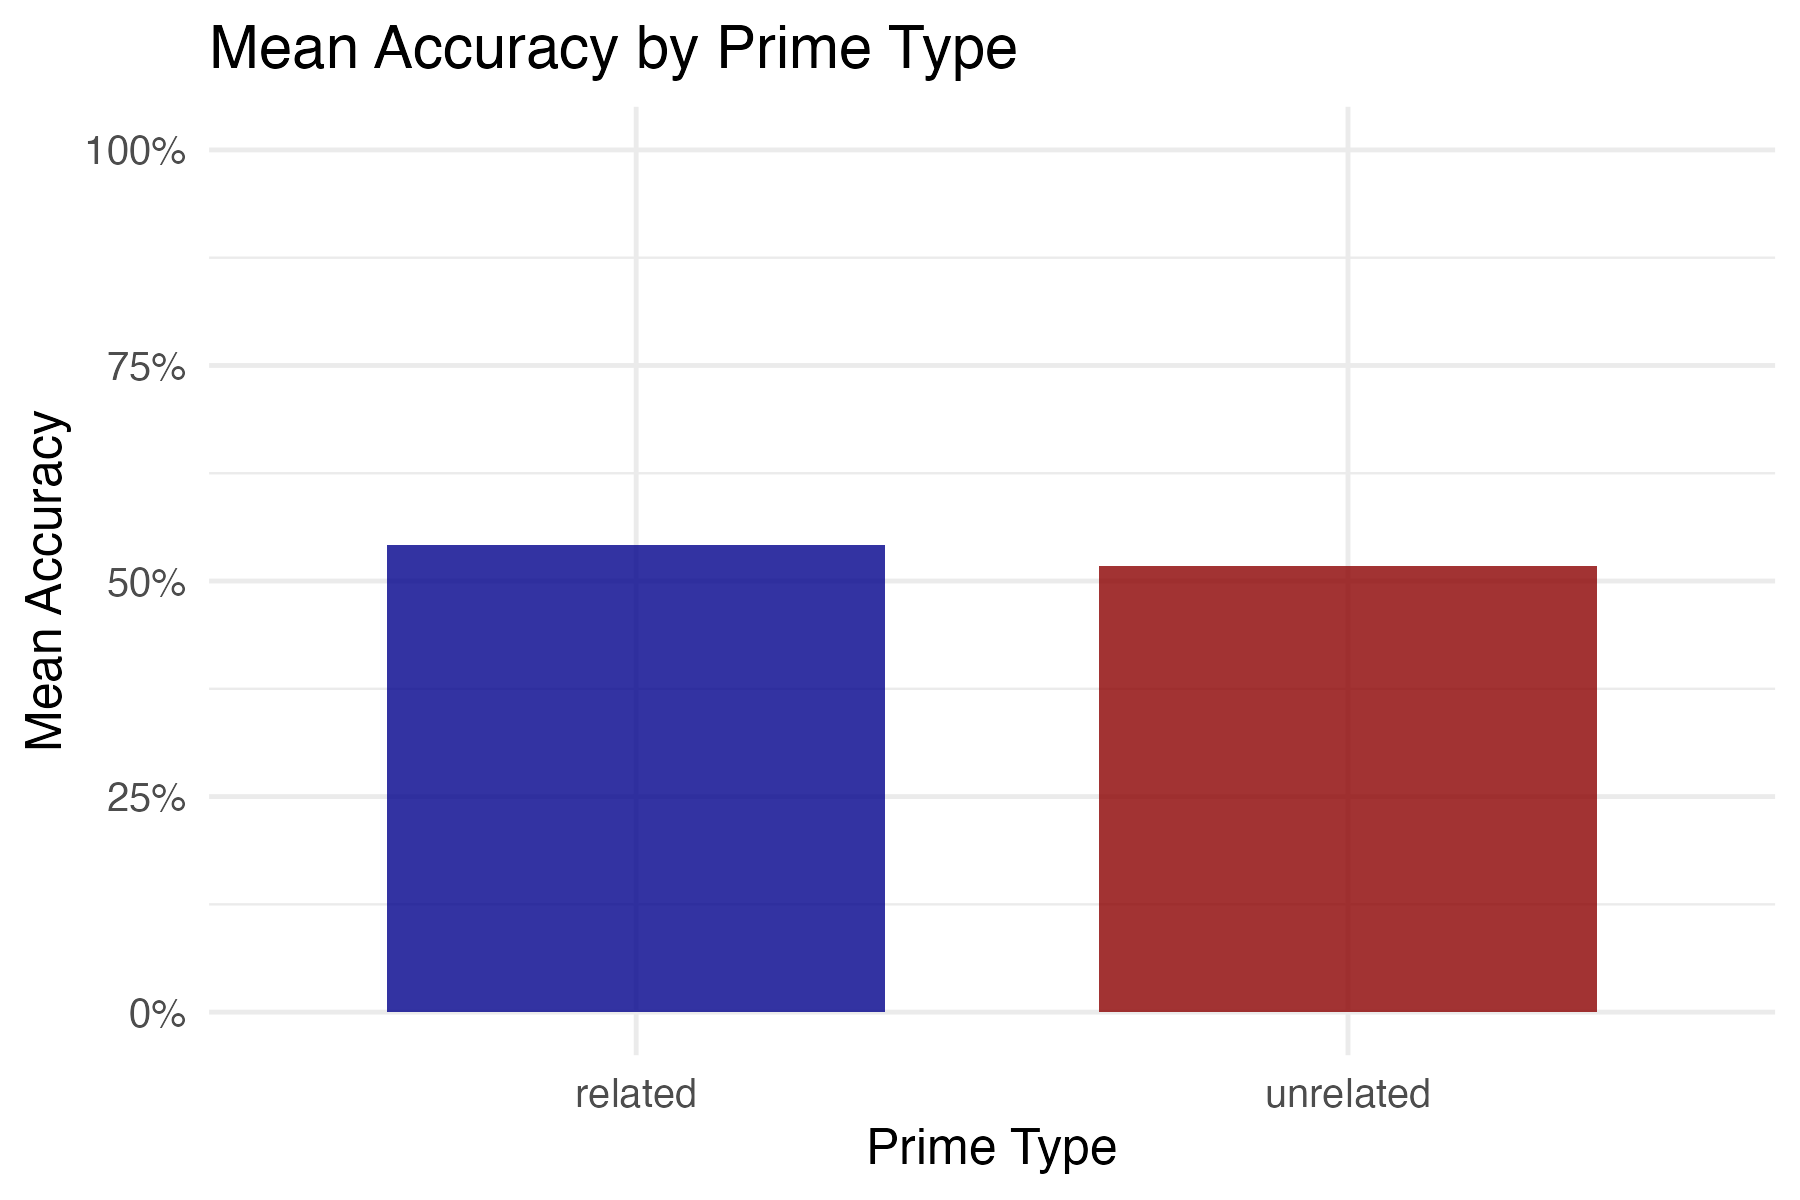
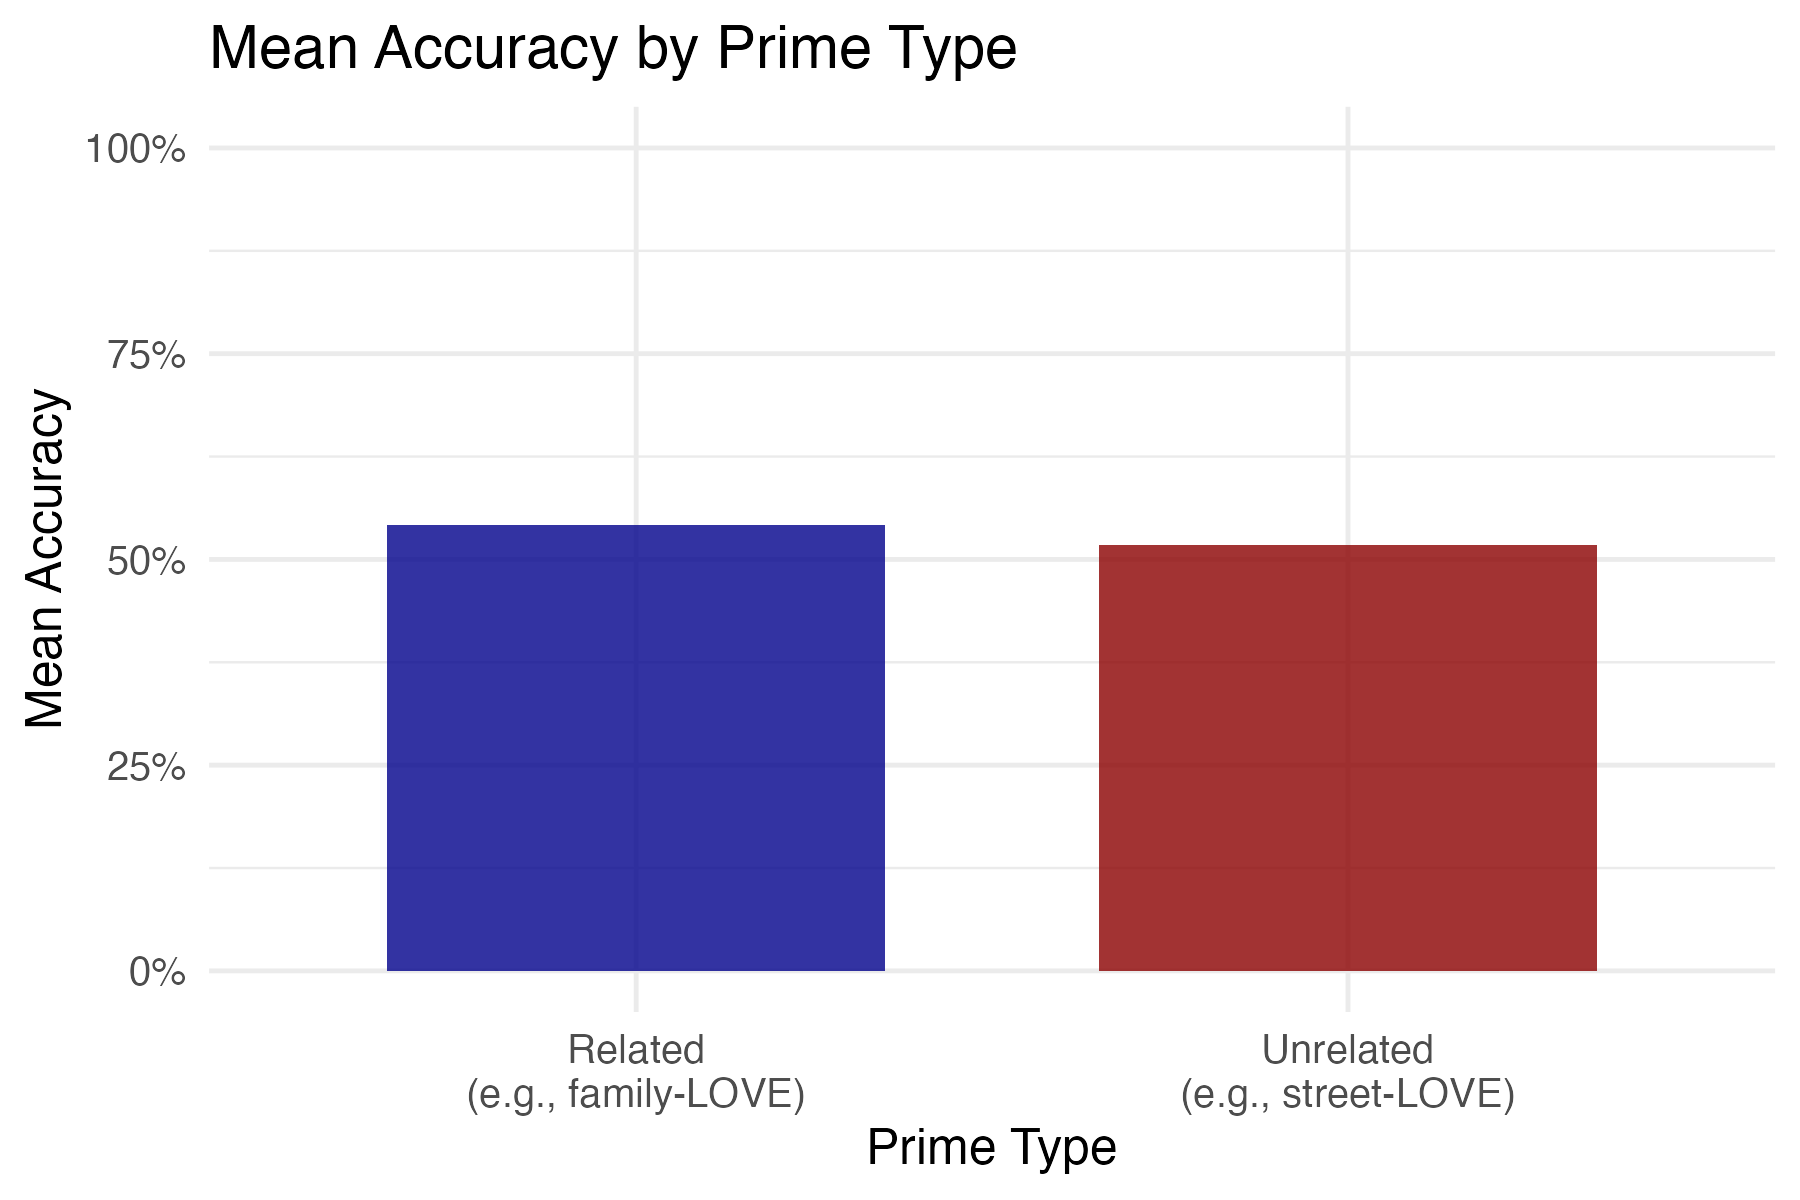
feat: add summary stats and plots for reaction time and accuracy

diff --git a/analysis/summary_stats.md b/analysis/summary_stats.md
@@ -1,0 +1,20 @@
+# Summary Statistics
+
+## Reaction Time Summary (Correct Trials)
+
+|prime_type | mean_rt| sd_rt|  n|
+|:----------|-------:|-----:|--:|
+|related    |   650.0| 153.3| 13|
+|unrelated  |   735.8| 160.6| 29|
+
+## Priming Effect (RT)
+
+Raw mean difference (Unrelated - Related): 85.8 ms
+
+## Accuracy Summary (All Trials)
+
+|prime_type | mean_accuracy|  n|
+|:----------|-------------:|--:|
+|related    |         0.542| 24|
+|unrelated  |         0.518| 56|
+
